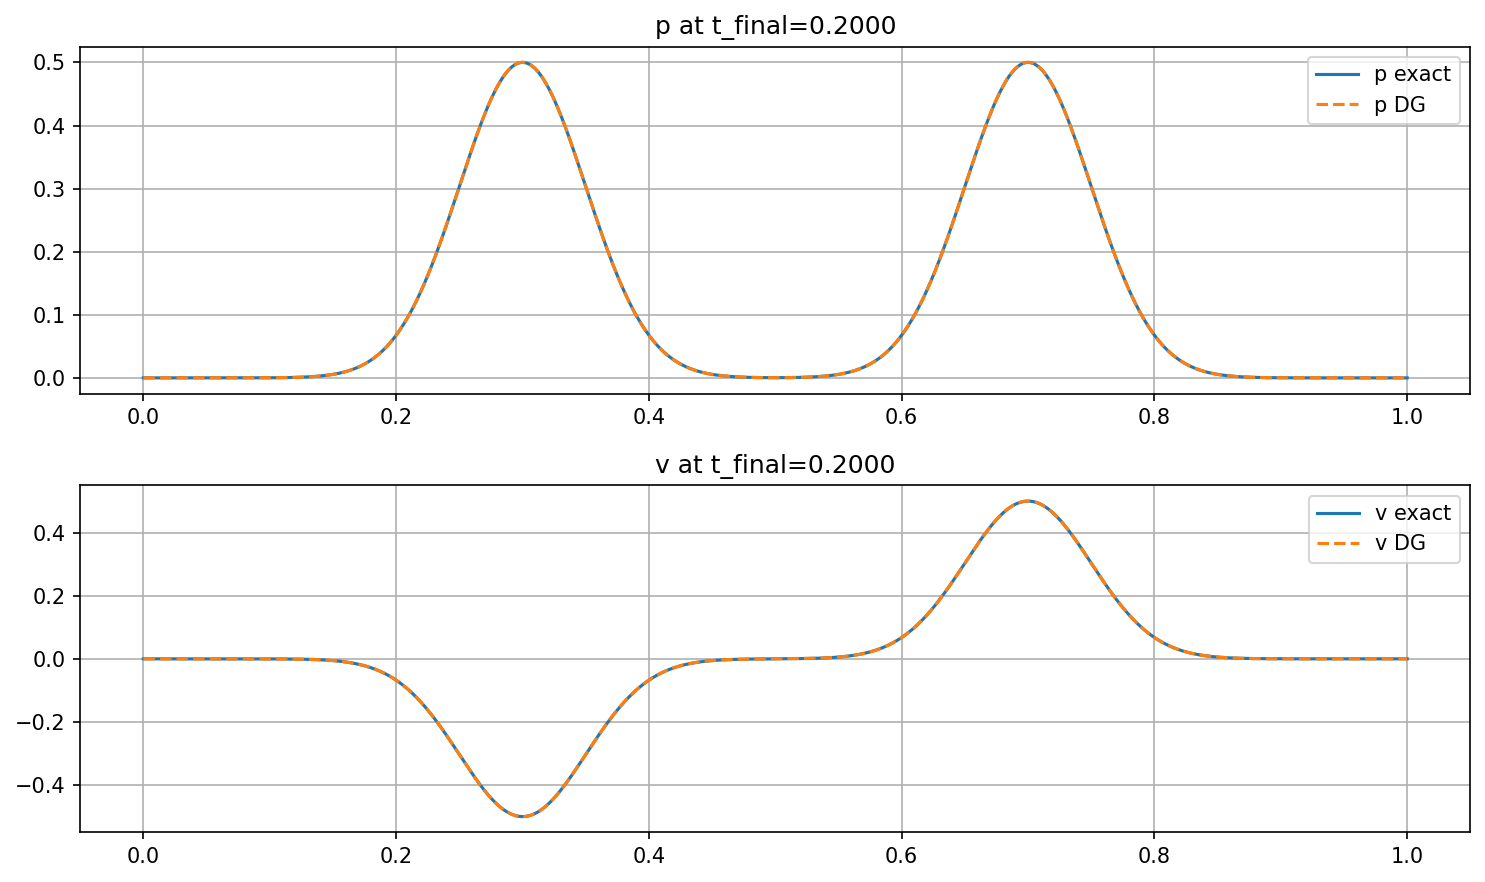
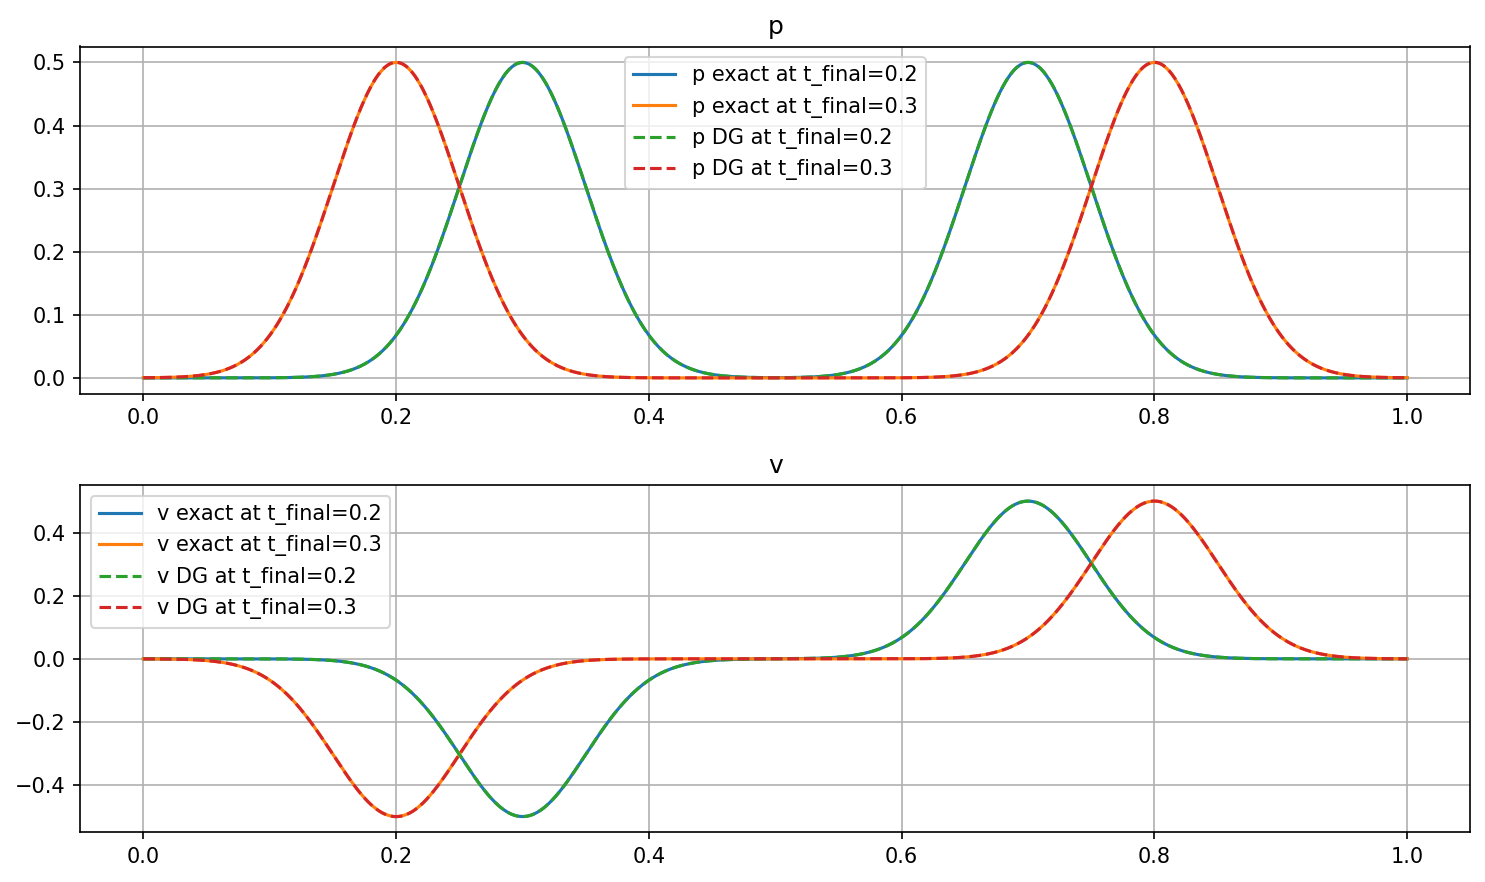
update on presentation adding a second final_time in dg.py

diff --git a/dg.py b/dg.py
@@ -6,9 +6,10 @@ import time
 import csv
 import os
 import pandas as pd
+import numpy as np
 
 # -------------------------
-# mesh / basis helpers
+# mesh / basis 
 # -------------------------
 def create_uniform_nodes(N_intervals):
     return jnp.linspace(0.0, 1.0, N_intervals + 1)
@@ -25,7 +26,7 @@ def phi_at(x, xL, xR):
 
 vphi_at = jax.vmap(phi_at, in_axes=(0, None, None))
 
-# analytic local mass inverse for P1
+# analytic local mass matrix for P1
 def local_mass_inv(h):
     M = (h / 6.0) * jnp.array([[2.0, 1.0], [1.0, 2.0]])
     return jnp.linalg.inv(M)
@@ -37,13 +38,11 @@ def local_mass_inv(h):
 def linear_system_flux(A):
     def Flux(U):
         # U shape (...,2)
-        return U @ A.T  # vector flux per point
+        return U @ A.T 
     return Flux
 
 def rusanov_flux(U_L, U_R, A,smax):
-    # U_L, U_R : (2,)
-
-
+   
     F_L = (U_L[None, :] @ A.T)[0]
     F_R = (U_R[None, :] @ A.T)[0]
 
@@ -51,8 +50,6 @@ def rusanov_flux(U_L, U_R, A,smax):
 
 # -------------------------
 # local volume term for system
-# returns vector shape (2,2) for local contributions per eqn? We'll return (2,) per basis per component flattened as (2,2):
-# For each component k (p,v) and each local basis i -> V[k,i] = ∫ F_k(u(x)) * dphi_i/dx dx
 # -------------------------
 @jax.jit(static_argnums=(4,))
 def local_volume_system(u_cell, xL, xR, A, nq=24):
@@ -63,42 +60,39 @@ def local_volume_system(u_cell, xL, xR, A, nq=24):
     w  = w.at[-1].set(h/(2*(nq-1)))
 
     # reconstruction U(x)
-    phi_q = vphi_at(xq, xL, xR)       # (nq,2)
-    p_q = phi_q @ u_cell[0]           # (nq,)
-    v_q = phi_q @ u_cell[1]           # (nq,)
+    phi_q = vphi_at(xq, xL, xR)       
+    p_q = phi_q @ u_cell[0]           
+    v_q = phi_q @ u_cell[1]           
     Uq = jnp.stack([p_q, v_q], axis=1)
 
-    Fq = Uq @ A.T                    # (nq,2)
+    Fq = Uq @ A.T                    
 
-    # dérivées exactes des bases
+    # exact derivative of basis functions
     dphi0 = -1.0 / h
     dphi1 =  1.0 / h
 
-    # intégration directe du flux * dérivée
+    # Integration of flux * dphi
     V0 = jnp.sum(w[:,None] * Fq * dphi0, axis=0)
     V1 = jnp.sum(w[:,None] * Fq * dphi1, axis=0)
 
-    return jnp.stack([V0, V1], axis=1)   # (2,2)
+    return jnp.stack([V0, V1], axis=1)   
 
 
 v_local_volume_system = jax.vmap(local_volume_system, in_axes=(0, 0, 0, None, None))
 
 # -------------------------
 # surface term for system
-# For each cell j compute S (2,2) with same basis ordering:
 # S = f_right * phiR - f_left * phiL  where phiR=[0,1], phiL=[1,0]
-# But f_left/f_right are vector fluxes -> S is (2,2) where each row is component, column basis.
 # -------------------------
-# To make implementation clear we choose data layout: u_cells shape (N_cells, 2, 2)
-# where u_cells[e, k, i] : element e, component k (0=p,1=v), local basis i (0=left,1=right)
 
 # implement surface term with that layout
+
 @jax.jit
 def surface_term_system(u_cells, j, A, smax):
     N = u_cells.shape[0]
     # left interface between j-1 and j
-    UL_left = u_cells[(j-1) % N, :, 1]  # right DOF of cell j-1, shape (2,)
-    UR_left = u_cells[j, :, 0]          # left DOF of cell j
+    UL_left = u_cells[(j-1) % N, :, 1]  
+    UR_left = u_cells[j, :, 0]          
     f_left = rusanov_flux(UL_left, UR_left, A, smax)
 
     # right interface between j and j+1
@@ -106,10 +100,6 @@ def surface_term_system(u_cells, j, A, smax):
     UR_right = u_cells[(j+1) % N, :, 0]
     f_right = rusanov_flux(UL_right, UR_right, A, smax)
 
-    # phiR = [0,1], phiL = [1,0] -> contribution S = f_right * phiR - f_left * phiL
-    # Build S as (2,2): rows component, cols local basis
-    # f_right multiplies basis vector [0,1] => contributes to column 1
-    # f_left  multiplies basis vector [1,0] => contributes to column 0 (with minus)
     S = jnp.zeros((2,2))
     S = S.at[:,1].set(f_right)
     S = S.at[:,0].set(-f_left)
@@ -124,23 +114,21 @@ v_surface_term_system = jax.vmap(surface_term_system, in_axes=(None, 0, None, No
 def dg_rhs_system(u_cells, x_nodes, A, smax):
     xLs, xRs = cell_edges_from_nodes(x_nodes)
     N = u_cells.shape[0]
-    # volume: returns (N,2,2)
+  
     V_all = jax.vmap(lambda Ue, xL, xR: local_volume_system(Ue, xL, xR, A, 24))(u_cells, xLs, xRs)
-    # surface: (N,2,2)
+
     S_all = jax.vmap(lambda j: surface_term_system(u_cells, j, A, smax))(jnp.arange(N))
-    # mass inverse per element (2x2 same for both components)
+    
     hs = xRs - xLs
-    M_inv_all = jax.vmap(lambda h: local_mass_inv(h))(hs)  # (N,2,2)
-    # Now for each element, form residual per component/local dof:
-    # R_e (2,2) = M_inv_e @ (V_e - S_e)  but M_inv acts on local DOF index (columns),
-    # so perform for each component separately
+    M_inv_all = jax.vmap(lambda h: local_mass_inv(h))(hs)  
+    
     def element_rhs(e):
-        Vi = V_all[e]   # (2,2) rows comp, cols basis
+        Vi = V_all[e]  
         Si = S_all[e]
-        # For each component k: rhs_k = M_inv @ (V_k - S_k) where V_k is shape (2,)
+        
         rhs_comp0 = M_inv_all[e] @ (Vi[0] - Si[0])
         rhs_comp1 = M_inv_all[e] @ (Vi[1] - Si[1])
-        return jnp.stack([rhs_comp0, rhs_comp1], axis=0)  # (2,2)
+        return jnp.stack([rhs_comp0, rhs_comp1], axis=0)  
     RHS = jax.vmap(element_rhs)(jnp.arange(N))
     return RHS
 
@@ -154,6 +142,9 @@ def rk2_step_system(u_cells, x_nodes, A, smax, dt):
     k2 = dg_rhs_system(u_mid, x_nodes, A, smax)
     return u_cells + dt * k2
 
+# -------------------------
+# Euler step
+# -------------------------
 @jax.jit
 def euler_step_system(u_cells, x_nodes, A, smax, dt):
     k1 = dg_rhs_system(u_cells, x_nodes, A, smax)  # (N,2,2)
@@ -228,15 +219,17 @@ def main():
         writer = csv.writer(f)
         writer.writerow(['N_cells', 'duration_sec', 'L2_error_p', 'L2_error_v', 'Linf_error_p', 'Linf_error_v'])
 
-        
+    p_erros = []
+    v_errors = [] 
+    durations = []
     for N in Ns:
         print(f"Running simulation with N={N} cells")
         # mesh
 
         x_nodes = create_uniform_nodes(N)
         xLs, xRs = cell_edges_from_nodes(x_nodes)
-
-        # build u_cells array shape (N, 2, 2) : [cell, component, local_dof]
+    
+        # build u_cells array 
         u_cells = jnp.stack([jnp.stack([jnp.array([p0(xLs[i]), p0(xRs[i])]),
                                         jnp.array([v0(xLs[i]), v0(xRs[i])])]) for i in range(N)], axis=0)
 
@@ -268,6 +261,20 @@ def main():
         # analytic
         p_ex, v_ex, wplus_ex, wminus_ex = analytic_solution_pv(x_plot, p0, c, t_final)
 
+        t_final_2 = 0.3
+        u = u_cells.copy()
+        nsteps = int(jnp.ceil(t_final_2 / dt))
+        print('nsteps',nsteps)
+        
+        for n in range(nsteps):
+            #u = rk2_step_system(u, x_nodes, Flux, A, smax, dt)
+            u = euler_step_system(u, x_nodes, A, smax, dt)
+        
+       
+        p_rec2, v_rec2 = reconstruct_system(u, x_nodes, x_plot)
+
+        # analytic
+        p_ex2, v_ex2, wplus_ex2, wminus_ex2 = analytic_solution_pv(x_plot, p0, c, t_final_2)
         # errors
         # discrete L2 on plot grid
         dx = x_plot[1] - x_plot[0]
@@ -278,8 +285,9 @@ def main():
         print(f"L2 error p: {float(L2_p):.3e}, v: {float(L2_v):.3e}")
         print(f"Linf error p: {float(Linf_p):.3e}, v: {float(Linf_v):.3e}")
         # Store results in CSV
-
-        
+        p_erros.append(float(L2_p))
+        v_errors.append(float(L2_v))
+        durations.append(duration)
 
         with open(csv_file, 'a', newline='') as f:
             writer = csv.writer(f)
@@ -290,14 +298,19 @@ def main():
     # plot comparison
     plt.figure(figsize=(10,6))
     plt.subplot(2,1,1)
-    plt.plot(x_plot, p_ex, '-', label='p exact')
-    plt.plot(x_plot, p_rec, '--', label='p DG')
-    plt.legend(); plt.grid(True); plt.title(f"p at t_final={t_final:.4f}")
+    plt.plot(x_plot, p_ex, '-', label='p exact at t_final=0.2')
+    plt.plot(x_plot, p_ex2, '-', label='p exact at t_final=0.3')
+    plt.plot(x_plot, p_rec, '--', label='p DG at t_final=0.2')
+    plt.plot(x_plot, p_rec2, '--', label='p DG at t_final=0.3')
+
+    plt.legend(); plt.grid(True); plt.title(f"p")
 
     plt.subplot(2,1,2)
-    plt.plot(x_plot, v_ex, '-', label='v exact')
-    plt.plot(x_plot, v_rec, '--', label='v DG')
-    plt.legend(); plt.grid(True); plt.title(f"v at t_final={t_final:.4f}")
+    plt.plot(x_plot, v_ex, '-', label='v exact at t_final=0.2')
+    plt.plot(x_plot, v_ex2, '-', label='v exact at t_final=0.3')
+    plt.plot(x_plot, v_rec, '--', label='v DG at t_final=0.2')
+    plt.plot(x_plot, v_rec2, '--', label='v DG at t_final=0.3')
+    plt.legend(); plt.grid(True); plt.title(f"v")
 
     plt.tight_layout()
     output_dir = 'Report&Presentation/Images'
@@ -318,5 +331,30 @@ def main():
     plt.savefig(os.path.join(output_dir, 'dg_invariants.png'), dpi=150, bbox_inches='tight')
     plt.close()
 
+    #plot convergence
+    p_error_slope=jnp.polyfit(jnp.log10(jnp.array(Ns)), jnp.log10(jnp.array(p_erros)), 1)[0]
+    v_error_slope=jnp.polyfit(jnp.log10(jnp.array(Ns)), jnp.log10(jnp.array(v_errors)), 1)[0]
+    plt.figure(figsize=(6,5))
+    plt.loglog(Ns, p_erros, 'o-', label=f'L2 error p (slope={p_error_slope:.2f})')
+    plt.loglog(Ns, v_errors, 's--', label=f'L2 error v (slope={v_error_slope:.2f})')
+    plt.xlabel('Number of cells N')
+    plt.ylabel('L2 error')
+    plt.title('Convergence of DG P1 scheme')
+    plt.grid(True, which='both', ls='--')
+    plt.legend()
+    plt.savefig(os.path.join(output_dir, 'dg_convergence.png'), dpi=150, bbox_inches='tight')
+    plt.close()
+
+    duration_slope = np.polyfit(np.array(Ns), np.array(durations), 1)[0]
+    plt.figure(figsize=(6,5))
+    plt.plot(Ns, durations, 'o-', label=f'Duration (slope={duration_slope:.2f})')
+    plt.xlabel('Number of cells N')
+    plt.ylabel('Duration (seconds)')
+    plt.title('Computation Time vs Number of Cells')
+    plt.grid(True, which='both', ls='--')
+    plt.legend()
+    plt.savefig(os.path.join(output_dir, 'dg_duration.png'), dpi=150, bbox_inches='tight')
+
+    print("All done.")
 if __name__ == "__main__":
     main()

diff --git a/Report&Presentation/presentation.tex b/Report&Presentation/presentation.tex
@@ -242,6 +242,43 @@ To validate the implementation of the DGM, we consider a simplified model :
 \end{itemize}
 \end{frame}
 
+\subsection{DG's results}
+
+\slideTitle{Result}
+\begin{columns}[T]
+    \begin{column}{0.58\textwidth}
+        \centering
+        \includegraphics[width=\linewidth]{Images/dg_solution.png}
+        \scriptsize DG solution.
+        \label{fig:dg_result}
+    \end{column}
+    \begin{column}{0.42\textwidth}
+       \begin{itemize}
+        \item Numerical solution with DGM.
+        \item $p_0(x) = e^{-0.5((x-0.5)/\sigma)^2}$, $v_0(x) = 0$
+        \item For $N=800$ cells, $L_2$ error is $\approx 9.1 \times 10^{-5}$
+       \end{itemize} 
+    \end{column}
+\end{columns}
+\end{frame}
+
+\slideTitle{Convergence and Efficiency}
+\begin{columns}[T]
+    \begin{column}{0.5\textwidth}
+        \centering
+        \includegraphics[width=\linewidth]{Images/dg_convergence.png}
+        \scriptsize DG convergence.
+        \label{fig:dg_convergence}
+    \end{column}
+    \begin{column}{0.5\textwidth}
+        \centering
+        \includegraphics[width=\linewidth]{Images/dg_duration.png}
+        \scriptsize DG solution.
+        \label{fig:dg_duration}
+    \end{column}
+\end{columns}
+\end{frame}
+
 
 \begin{frame}[allowframebreaks]{References}
 \printbibliography
